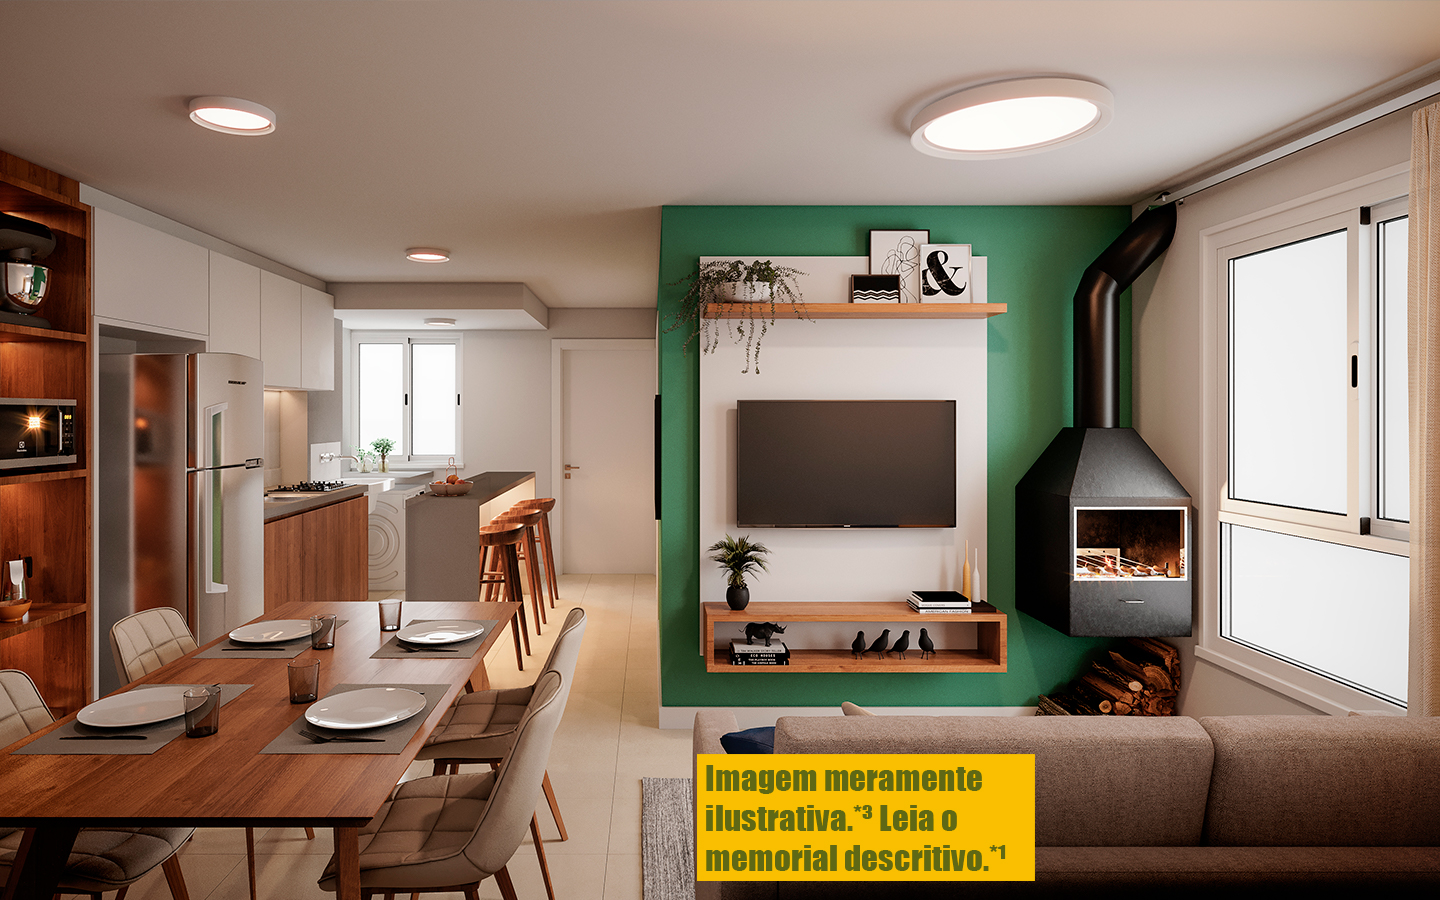
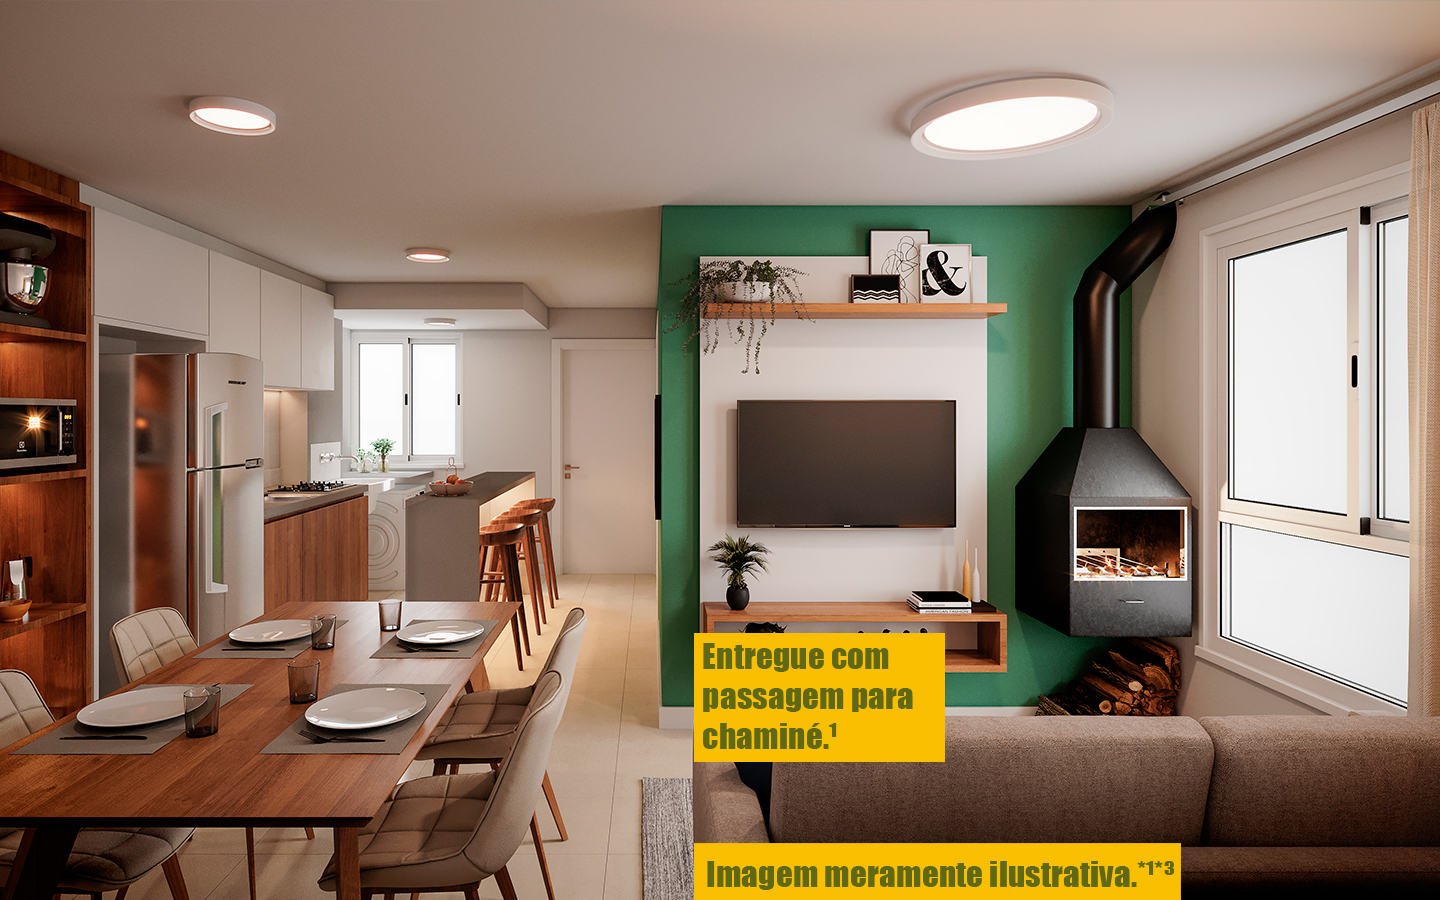
passagem

Changed region(s): [[0.4688, 0.6844, 0.8438, 1.0]]

diff --git a/index.html b/index.html
@@ -57,7 +57,7 @@
 							<h2>Principais benefícios</h2>
 							<p><ul class="alt">
 <li>Planta baixa otimizada
-</li><li>Espera para Churrasqueira ou Lareira*¹
+</li><li>Passagem para chaminé*¹
 </li><li>Espera para Ar Condicionado*¹
 </li><li>Enquadrado no Programa Casa Verde e Amarela*²
 </li><li>Maior desconto do mercado*²
